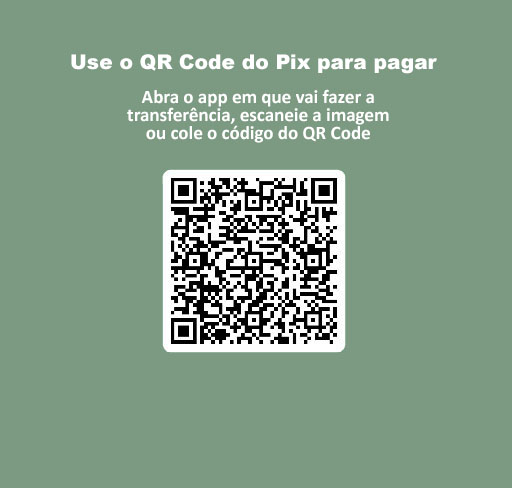
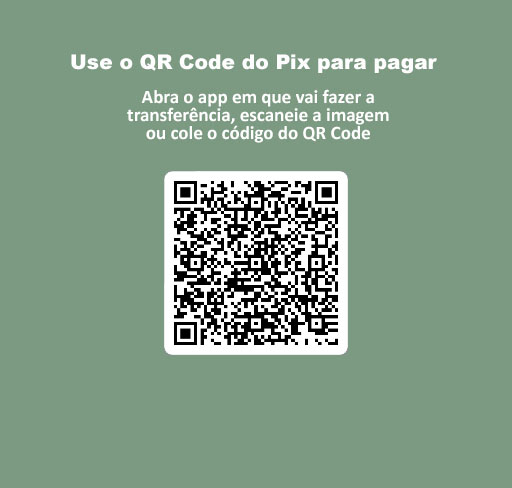
correção do qr-code

Changed region(s): [[0.3125, 0.3381, 0.6875, 0.7377]]

diff --git a/index.html b/index.html
@@ -531,7 +531,7 @@
                             <p><strong>Favorecido</strong> <span>Geovana de Avila Borba &copy;</span></p>
                             <p><strong>CPF</strong> <span>•••.798.728-••</span></p>
                             <p><strong>Banco</strong> <span>260 - Nu Pagamentos S.A.</span></p>
-                            <p><strong>Identificador</strong> <span>efZX6irNgysZj3tygibp</span></p>
+                            <p><strong>Identificador</strong> <span>GAC0DqG57hlx0pwygibp</span></p>
                         </div>
                     </details>
                 </div>
